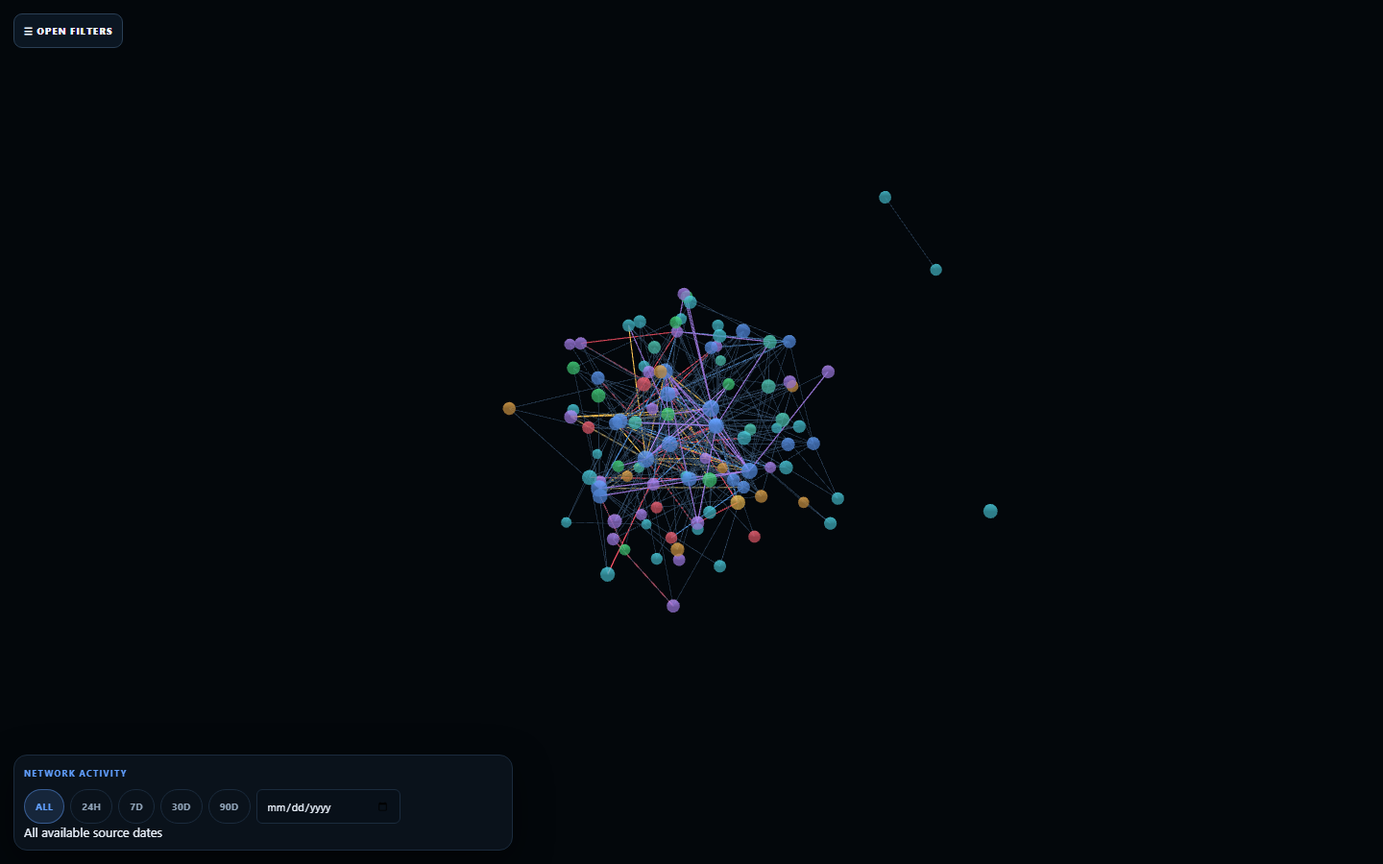
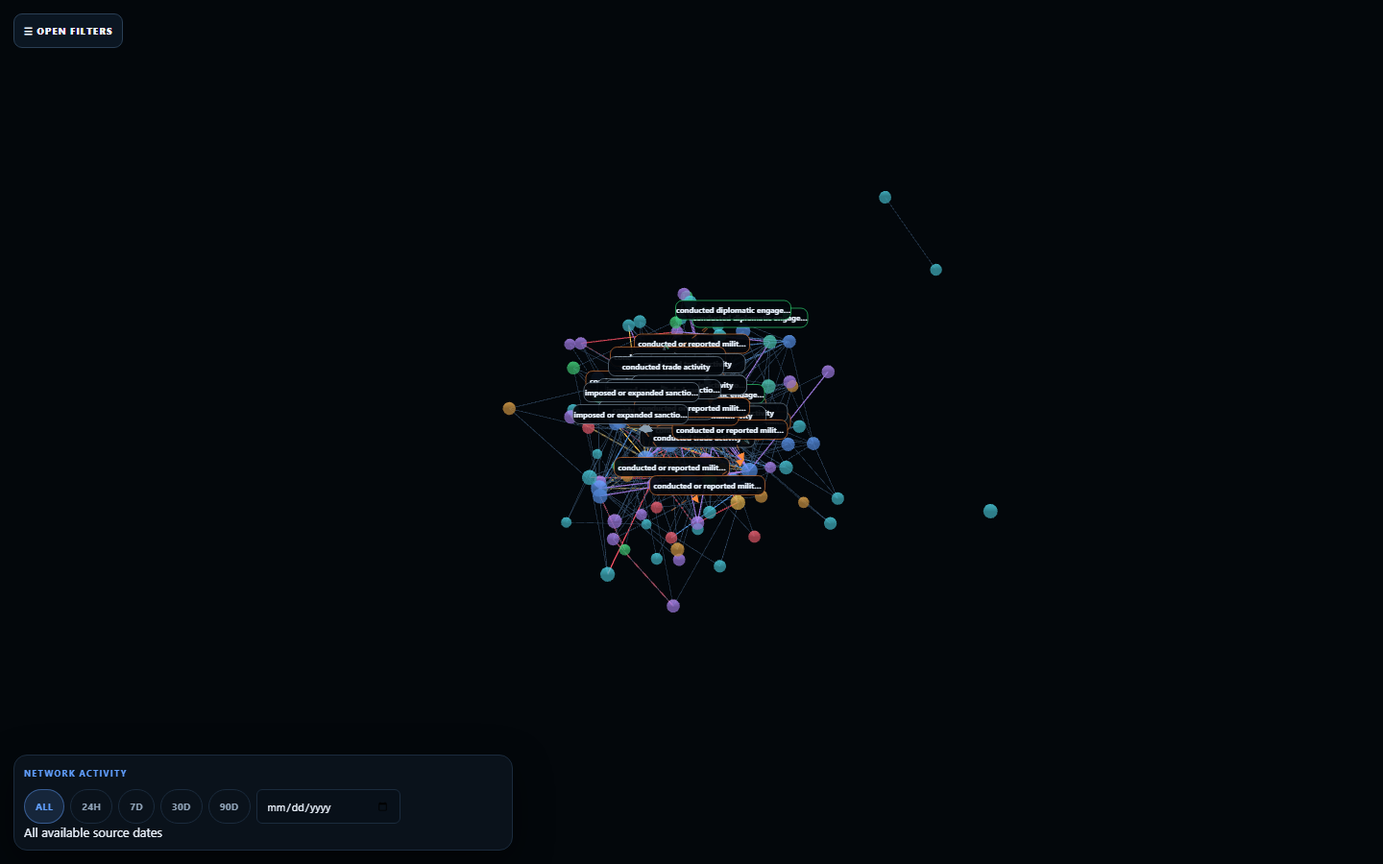
feat(web): restore lazy iframe, runtime budgets, visibility/context-loss guards, cached fetches, action-arrow fix and toggle (W29-W34)

Changed region(s): [[0.4062, 0.3422, 0.5938, 0.5911]]

diff --git a/intelligence_web_v2.js b/intelligence_web_v2.js
@@ -20,13 +20,14 @@ let liveByTitle=new Map(),liveBySourceTitle=new Map();
 function indexLive(d){liveByTitle=new Map();liveBySourceTitle=new Map();const a=Array.isArray(d?.articles)?d.articles:[];for(const x of a){const u=evidenceUrl(x);const t=normTitle(x?.title);const s=normTitle(x?.source||x?.sourceLabel||x?.publisher);if(u&&t){if(!liveByTitle.has(t))liveByTitle.set(t,u);if(s)liveBySourceTitle.set(s+'|'+t,u)}}}
 function resolveUrl(e){const direct=evidenceUrl(e);if(direct)return direct;const t=normTitle(e?.title),s=normTitle(e?.source);return liveBySourceTitle.get(s+'|'+t)||liveByTitle.get(t)||''}
 function enrichEvidence(e){if(!e)return e;const u=resolveUrl(e);if(u&&!e.url)e.url=u;return e}
-async function get(path){const r=await fetch(path+'?v='+Date.now(),{cache:'no-store'});if(!r.ok)throw Error('HTTP '+r.status);return r.json()}
+const jsonCache=new Map();
+async function get(path,force=false){if(!force&&jsonCache.has(path))return jsonCache.get(path);const r=await fetch(path+'?v='+Date.now(),{cache:'no-store'});if(!r.ok)throw Error('HTTP '+r.status);const data=await r.json();jsonCache.set(path,data);return data}
 function normalize(d){const g=d?.intelligenceGraph&&typeof d.intelligenceGraph==='object'?d.intelligenceGraph:null,r=g||d||{};const nodes=(Array.isArray(r.nodes)?r.nodes:[]).map((n,i)=>({...n,id:String(n.id||'node-'+i),label:String(n.label||n.name||n.title||n.id||'Entity '+(i+1)),kind:String(n.kind||'actor').toLowerCase(),mentions:Number(n.mentions)||0,evidence:evidenceClean(n.evidence).map(enrichEvidence)}));const valid=new Set(nodes.map(n=>n.id));const links=(Array.isArray(r.edges)?r.edges:[]).map(e=>{const[s,t]=ends(e);return{...e,source:s,target:t,sid:s,tid:t,weight:Math.max(1,Number(e.weight)||1),types:Array.isArray(e.types)?e.types.map(String):[],relationship:String(e.relationship||'Both entities are referenced in the same public evidence record.'),evidence:evidenceClean(e.evidence).map(enrichEvidence)}}).filter(e=>valid.has(e.source)&&valid.has(e.target)&&e.source!==e.target);return{nodes,links,updatedAt:r.updatedAt||d?.updatedAt||'',method:r.method||'Evidence-backed public reporting graph',caution:r.caution||''}}
-async function load(){let live={};try{live=await get(LIVE);indexLive(live)}catch{indexLive({})}try{const g=normalize(await get(GRAPH));if(g.nodes.length)return g}catch{}return normalize(await get(SNAP))}
+async function load(force=false){let live={};try{live=await get(LIVE,force);indexLive(live)}catch{indexLive({})}try{const g=normalize(await get(GRAPH,force));if(g.nodes.length)return g}catch{}return normalize(await get(SNAP,force))}
 function edgeColor(e){if(isMention(e))return EDGE_COLORS.mention;const t=(e.types||[]).map(x=>String(x).toLowerCase()),r=String(e.relationship||'').toLowerCase();for(const k of ['sanctions','conflict','military','diplomatic','political','trade','economic','strategic','security','resource','oil','energy'])if(t.some(x=>x.includes(k))||r.includes(k))return EDGE_COLORS[k];return EDGE_COLORS.general}
 function showLoadingError(e){const el=$('loading');if(!el)return;el.style.display='grid';el.style.pointerEvents='auto';el.setAttribute('aria-hidden','false');el.innerHTML='<div style="text-align:center;padding:24px;max-width:520px"><b>INTELLIGENCE WEB DATA ERROR</b><br><small>'+esc(e?.message||'Unable to initialize the intelligence graph.')+'</small><br><button id="loading-retry" type="button" style="margin-top:12px">RETRY</button></div>';const b=$('loading-retry');if(b)b.onclick=()=>location.reload()}
 function hideLoading(){const el=$('loading');if(!el)return;el.style.display='none';el.style.pointerEvents='none';el.setAttribute('aria-hidden','true')}
-async function main(base){let active={nodes:[],links:[]},selected=null,dialog=false,filter='all',period='all',query='',relFilter='all',searchTimer=0,fitTimer=0,controls=true,orbit=false,orbitFrame=0,paused=false,relationships=true,labelFrame=0,pathMode=false,pathFrom=null,pathNodes=new Set(),pathLinks=new Set(),isolated=null,isolatedBackup=null,pins=loadPins(),labelsOn=true,reduceMotion=!!(window.matchMedia&&window.matchMedia('(prefers-reduced-motion: reduce)').matches);
+async function main(base){let active={nodes:[],links:[]},selected=null,dialog=false,filter='all',period='all',query='',relFilter='all',searchTimer=0,fitTimer=0,controls=true,orbit=false,orbitFrame=0,paused=false,relationships=true,labelFrame=0,pathMode=false,pathFrom=null,pathNodes=new Set(),pathLinks=new Set(),isolated=null,isolatedBackup=null,pins=loadPins(),labelsOn=true,reduceMotion=!!(window.matchMedia&&window.matchMedia('(prefers-reduced-motion: reduce)').matches),lowTier=((navigator.hardwareConcurrency||8)<=4)||reduceMotion;
 const peer=(e,id)=>{const[a,b]=ends(e);return a===String(id)?b:a};const related=n=>active.links.filter(e=>ends(e).includes(String(n.id)));
 function styles(){const g=window.__gpGraph;if(!g)return;g.nodeColor(n=>pathNodes.size?(pathNodes.has(String(n.id))?'#ffffff':'#263844'):(selected?(n.id===selected.id?'#ffffff':related(selected).some(e=>peer(e,selected.id)===n.id)?NODE_COLORS[n.kind]||NODE_COLORS.actor:'#263844'):NODE_COLORS[n.kind]||NODE_COLORS.actor));g.nodeVal(n=>selected?(n.id===selected.id?Math.max(16,Math.min(34,12+Math.sqrt(Math.max(1,n.mentions))*2.5)):Math.max(9,Math.min(25,9+Math.sqrt(Math.max(1,n.mentions))*1.7))):Math.max(12,Math.min(30,12+Math.sqrt(Math.max(1,n.mentions))*2)));g.linkColor(e=>pathNodes.size?(pathLinks.has(e)?'#ffffff':'#1d2c3c'):(selected&&ends(e).includes(String(selected.id))?'#ffffff':edgeColor(e)));g.linkOpacity(e=>pathNodes.size?(pathLinks.has(e)?.95:.08):(selected&&ends(e).includes(String(selected.id))?.98:(isMention(e)?.32:.9)));g.linkWidth(e=>isMention(e)?1.2:Math.max(1.6,Math.min(9,1.6+Math.sqrt(edgeWeight(e)))))}
 function traceClick(node){const b=String(node.id);if(!pathFrom){pathFrom=b;pathNodes=new Set([b]);pathLinks=new Set();styles();return}const a=pathFrom,prev=new Map([[a,null]]),queue=[a];while(queue.length){const cur=queue.shift();if(cur===b)break;for(const e of active.links){const[s,t]=ends(e);const nxt=s===cur?t:(t===cur?s:null);if(nxt&&!prev.has(nxt)){prev.set(nxt,cur);queue.push(nxt)}}}if(prev.has(b)){const nodes=new Set([b]);let cur=b;while(prev.get(cur)){cur=prev.get(cur);nodes.add(cur)}pathNodes=nodes;pathLinks=new Set(active.links.filter(e=>{const[s,t]=ends(e);return nodes.has(s)&&nodes.has(t)}))}else{pathNodes=new Set([a,b]);pathLinks=new Set()}pathMode=false;pathFrom=null;const tb=$('trace');if(tb){tb.classList.remove('active');tb.setAttribute('aria-pressed','false')}styles()}
@@ -66,6 +67,9 @@ function render(fit=true){
   const keep=new Set(keptLinks.map(e=>e.source).concat(keptLinks.map(e=>e.target)));
   const focusIds=new Set(view.focus.map(n=>String(n.id)));
   active={nodes:view.nodes.filter(n=>keep.has(String(n.id))||focusIds.has(String(n.id))),links:keptLinks};
+  const NODE_BUDGET=150,LINK_BUDGET=600;let budgetTrimmed=false;
+  if(active.nodes.length>NODE_BUDGET){active.nodes=active.nodes.slice(0,NODE_BUDGET);budgetTrimmed=true}
+  if(active.links.length>LINK_BUDGET){active.links=active.links.slice(0,LINK_BUDGET);budgetTrimmed=true}
   close();
   $('labels').innerHTML='';
   active.nodes.forEach(ensureLabel);
@@ -75,6 +79,7 @@ function render(fit=true){
   fitTimer=setTimeout(()=>{if(active.nodes.length&&(fit||active.nodes.length<=3)){try{window.__gpGraph.zoomToFit(700,90)}catch{}}syncLabels()},450);
   const range=period==='all'?'all available dates':`last ${period} hours`;
   const capNote=[];
+  if(budgetTrimmed)capNote.push('view trimmed to '+NODE_BUDGET+' nodes / '+LINK_BUDGET+' connections for rendering');
   if((base.nodes||[]).length>=100)capNote.push('nodes capped at 100 by the pipeline');
   if((base.links||[]).length>=500)capNote.push('connections capped at 500 by the pipeline');
   const ageHours=base.updatedAt?Math.max(0,(Date.now()-Date.parse(base.updatedAt))/3600000):NaN;
@@ -94,9 +99,9 @@ function render(fit=true){
   document.querySelectorAll('.period').forEach(b=>{const on=b.dataset.period===period;b.classList.toggle('active',on);b.setAttribute('aria-pressed',String(on))});
 }
 if(typeof ForceGraph3D!=='function')throw Error('3D graph library failed to load');
-const graphBuilder=new ForceGraph3D($('graph'),{controlType:'orbit',rendererConfig:{antialias:true,alpha:true,powerPreference:'high-performance'}}).backgroundColor('#03070b').showNavInfo(false).nodeId('id').nodeRelSize(6).nodeVal(n=>Math.max(12,Math.min(30,12+Math.sqrt(Math.max(1,n.mentions))*2))).nodeLabel(n=>'<b>'+esc(n.label)+'</b><br>'+esc(n.kind)+' · '+n.mentions+' mentions').nodeColor(n=>NODE_COLORS[n.kind]||NODE_COLORS.actor).linkColor(edgeColor).linkOpacity(.9).linkWidth(e=>isMention(e)?1.2:Math.max(1.6,Math.min(9,1.6+Math.sqrt(edgeWeight(e))))).linkLabel(e=>{const[s,t]=ends(e);const a=active.nodes.find(n=>String(n.id)===s),b=active.nodes.find(n=>String(n.id)===t);return'<b>'+esc(a?.label||s)+'</b> '+(isMention(e)?'co-mentioned with':'→')+' <b>'+esc(b?.label||t)+'</b><br>'+esc(e.relationship||'')+' · '+((e.evidence||[]).length)+' source records'}).linkDirectionalParticles(e=>relationships&&!paused&&!reduceMotion&&!isMention(e)?2:0).linkDirectionalParticleSpeed(.012).enableNodeDrag(true).onNodeClick(node=>{if(pathMode)traceClick(node);else show(node)}).d3VelocityDecay(.65).d3AlphaDecay(.08).warmupTicks(100).cooldownTicks(180);window.__gpGraph=graphBuilder;
+const graphBuilder=new ForceGraph3D($('graph'),{controlType:'orbit',rendererConfig:{antialias:true,alpha:true,powerPreference:'high-performance'}}).backgroundColor('#03070b').showNavInfo(false).nodeId('id').nodeRelSize(6).nodeVal(n=>Math.max(12,Math.min(30,12+Math.sqrt(Math.max(1,n.mentions))*2))).nodeLabel(n=>'<b>'+esc(n.label)+'</b><br>'+esc(n.kind)+' · '+n.mentions+' mentions').nodeColor(n=>NODE_COLORS[n.kind]||NODE_COLORS.actor).linkColor(edgeColor).linkOpacity(.9).linkWidth(e=>isMention(e)?1.2:Math.max(1.6,Math.min(9,1.6+Math.sqrt(edgeWeight(e))))).linkLabel(e=>{const[s,t]=ends(e);const a=active.nodes.find(n=>String(n.id)===s),b=active.nodes.find(n=>String(n.id)===t);return'<b>'+esc(a?.label||s)+'</b> '+(isMention(e)?'co-mentioned with':'→')+' <b>'+esc(b?.label||t)+'</b><br>'+esc(e.relationship||'')+' · '+((e.evidence||[]).length)+' source records'}).linkDirectionalParticles(e=>relationships&&!paused&&!reduceMotion&&!lowTier&&!document.hidden&&!isMention(e)?2:0).linkDirectionalParticleSpeed(.012).enableNodeDrag(true).onNodeClick(node=>{if(pathMode)traceClick(node);else show(node)}).d3VelocityDecay(.65).d3AlphaDecay(.08).warmupTicks(100).cooldownTicks(180);window.__gpGraph=graphBuilder;
 window.addEventListener('resize',()=>{graphBuilder.width(window.innerWidth).height(window.innerHeight);syncLabels()});
 try{graphBuilder.d3Force('charge').strength(-650).distanceMax(1500);graphBuilder.d3Force('link').distance(e=>Math.max(120,210-(Number(e.weight)||1)*10))}catch{}
-const details=$('details'),closeBtn=$('close');details.addEventListener('keydown',e=>{if(e.key!=='Tab')return;const f=details.querySelectorAll('button,a[href],input,select,textarea,[tabindex]:not([tabindex="-1"])');if(!f.length)return;const first=f[0],last=f[f.length-1];if(e.shiftKey&&document.activeElement===first){e.preventDefault();last.focus()}else if(!e.shiftKey&&document.activeElement===last){e.preventDefault();first.focus()}});details.addEventListener('pointerdown',e=>e.stopPropagation(),true);details.addEventListener('click',e=>e.stopPropagation());details.addEventListener('touchstart',e=>e.stopPropagation(),{capture:true,passive:true});closeBtn.addEventListener('click',e=>{e.preventDefault();e.stopPropagation();close();$('node-select').value='';});details.addEventListener('click',e=>{const a=e.target.closest?.('.source-resolve');if(!a)return;e.preventDefault();e.stopPropagation();const t=normTitle(a.dataset.title),s=normTitle(a.dataset.source),u=liveBySourceTitle.get(s+'|'+t)||liveByTitle.get(t)||'';if(u)window.open(u,'_blank','noopener,noreferrer');else{a.textContent='SOURCE URL NOT AVAILABLE';a.disabled=true}},{capture:true});$('clear').onclick=()=>{clearTimeout(searchTimer);$('search').value='';query='';render()};$('refresh').onclick=()=>load().then(x=>{base=x;render()}).catch(showLoadingError);$('search').oninput=e=>{const v=e.target.value;clearTimeout(searchTimer);const probe=window.IntelligenceWebFilters.project(base,{query:v,category:filter,period});const qtr=v.trim().toLowerCase();const hasEvidence=qtr&&(base.nodes||[]).some(n=>(n.evidence||[]).some(x=>String(x.title||x.summary||'').toLowerCase().includes(qtr)));if(qtr&&!probe.focus.length&&!hasEvidence){query=v;render(true)}else{searchTimer=setTimeout(()=>{query=v;render(false)},160)}};document.querySelectorAll('.filter').forEach(b=>b.onclick=()=>{filter=b.dataset.kind||'all';document.querySelectorAll('.filter').forEach(x=>x.classList.toggle('active',x===b));render()});$('reset').onclick=()=>{clearTimeout(searchTimer);filter='all';period='all';query='';relFilter='all';$('search').value='';const rt=$('rel-type');if(rt)rt.value='all';const sn=$('since');if(sn)sn.value='';pathMode=false;pathFrom=null;pathNodes=new Set();pathLinks=new Set();const tb0=$('trace');if(tb0){tb0.classList.remove('active');tb0.setAttribute('aria-pressed','false')}document.querySelectorAll('.filter').forEach(b=>b.classList.toggle('active',b.dataset.kind==='all'));render(true)};$('trace').onclick=function(){pathMode=!pathMode;pathFrom=null;pathNodes=new Set();pathLinks=new Set();this.classList.toggle('active',pathMode);this.setAttribute('aria-pressed',String(pathMode));styles()};$('labels-toggle').onclick=()=>{labelsOn=!labelsOn;applyLabels()};if(reduceMotion){const ob=$('orbit');if(ob){ob.disabled=true;ob.title='Disabled by reduced-motion preference'}}applyLabels();const relSel=$('rel-type');if(relSel)relSel.onchange=e=>{relFilter=e.target.value;render(false)};const since=$('since');if(since)since.onchange=e=>{const v=e.target.value;if(!v)return;const t=Date.parse(v+'T00:00:00');if(!Number.isFinite(t))return;period=String(Math.max(1,Math.round((Date.now()-t)/3600000)));render(true)};$('orbit').onclick=function(){if(reduceMotion){this.disabled=true;return}orbit=!orbit;this.classList.toggle('active',orbit);this.setAttribute('aria-pressed',String(orbit));cancelAnimationFrame(orbitFrame);if(orbit){let a=0;const go=()=>{if(!orbit||paused)return;window.__gpGraph.cameraPosition({x:720*Math.sin(a),y:150,z:720*Math.cos(a)},undefined,0);a+=.0025;orbitFrame=requestAnimationFrame(go)};go()}};$('flow').onclick=function(){relationships=!relationships;this.classList.toggle('active',relationships);this.setAttribute('aria-pressed',String(relationships));window.__gpGraph.linkVisibility(relationships);window.__gpGraph.linkDirectionalParticles(e=>relationships&&!paused&&!reduceMotion&&!isMention(e)?2:0)};document.querySelectorAll('.period').forEach(b=>b.onclick=()=>{period=b.dataset.period||'all';render()});$('node-select').onchange=e=>{const id=e.target.value;clearTimeout(searchTimer);query=$('search').value;render(false);if(id)show(active.nodes.find(n=>n.id===id)||active.nodes[0]||null)};document.addEventListener('keydown',e=>{if(e.key==='Escape'&&dialog){close();$('node-select').focus();return}if(!dialog||(e.key!=='ArrowDown'&&e.key!=='ArrowUp'))return;const list=active.nodes.slice().sort((a,b)=>String(a.label).localeCompare(String(b.label)));if(!list.length)return;const idx=list.findIndex(x=>x.id===selected?.id);const next=list[(idx+(e.key==='ArrowDown'?1:-1)+list.length)%list.length];if(next){e.preventDefault();show(next,true)}});render();startLabelLoop();$('details').style.pointerEvents='none';$('details').setAttribute('aria-hidden','true');hideLoading();setInterval(()=>{if(!document.hidden&&!dialog)load().then(x=>{if(x.updatedAt!==base.updatedAt){base=x;render()}}).catch(e=>console.warn('[Intelligence Web refresh]',e))},60000)}
+const details=$('details'),closeBtn=$('close');details.addEventListener('keydown',e=>{if(e.key!=='Tab')return;const f=details.querySelectorAll('button,a[href],input,select,textarea,[tabindex]:not([tabindex="-1"])');if(!f.length)return;const first=f[0],last=f[f.length-1];if(e.shiftKey&&document.activeElement===first){e.preventDefault();last.focus()}else if(!e.shiftKey&&document.activeElement===last){e.preventDefault();first.focus()}});details.addEventListener('pointerdown',e=>e.stopPropagation(),true);details.addEventListener('click',e=>e.stopPropagation());details.addEventListener('touchstart',e=>e.stopPropagation(),{capture:true,passive:true});closeBtn.addEventListener('click',e=>{e.preventDefault();e.stopPropagation();close();$('node-select').value='';});details.addEventListener('click',e=>{const a=e.target.closest?.('.source-resolve');if(!a)return;e.preventDefault();e.stopPropagation();const t=normTitle(a.dataset.title),s=normTitle(a.dataset.source),u=liveBySourceTitle.get(s+'|'+t)||liveByTitle.get(t)||'';if(u)window.open(u,'_blank','noopener,noreferrer');else{a.textContent='SOURCE URL NOT AVAILABLE';a.disabled=true}},{capture:true});$('clear').onclick=()=>{clearTimeout(searchTimer);$('search').value='';query='';render()};$('refresh').onclick=()=>load(true).then(x=>{base=x;render()}).catch(showLoadingError);$('search').oninput=e=>{const v=e.target.value;clearTimeout(searchTimer);const probe=window.IntelligenceWebFilters.project(base,{query:v,category:filter,period});const qtr=v.trim().toLowerCase();const hasEvidence=qtr&&(base.nodes||[]).some(n=>(n.evidence||[]).some(x=>String(x.title||x.summary||'').toLowerCase().includes(qtr)));if(qtr&&!probe.focus.length&&!hasEvidence){query=v;render(true)}else{searchTimer=setTimeout(()=>{query=v;render(false)},160)}};document.querySelectorAll('.filter').forEach(b=>b.onclick=()=>{filter=b.dataset.kind||'all';document.querySelectorAll('.filter').forEach(x=>x.classList.toggle('active',x===b));render()});$('reset').onclick=()=>{clearTimeout(searchTimer);filter='all';period='all';query='';relFilter='all';$('search').value='';const rt=$('rel-type');if(rt)rt.value='all';const sn=$('since');if(sn)sn.value='';pathMode=false;pathFrom=null;pathNodes=new Set();pathLinks=new Set();const tb0=$('trace');if(tb0){tb0.classList.remove('active');tb0.setAttribute('aria-pressed','false')}document.querySelectorAll('.filter').forEach(b=>b.classList.toggle('active',b.dataset.kind==='all'));render(true)};$('trace').onclick=function(){pathMode=!pathMode;pathFrom=null;pathNodes=new Set();pathLinks=new Set();this.classList.toggle('active',pathMode);this.setAttribute('aria-pressed',String(pathMode));styles()};$('labels-toggle').onclick=()=>{labelsOn=!labelsOn;applyLabels()};if(reduceMotion){const ob=$('orbit');if(ob){ob.disabled=true;ob.title='Disabled by reduced-motion preference'}}applyLabels();const relSel=$('rel-type');if(relSel)relSel.onchange=e=>{relFilter=e.target.value;render(false)};const since=$('since');if(since)since.onchange=e=>{const v=e.target.value;if(!v)return;const t=Date.parse(v+'T00:00:00');if(!Number.isFinite(t))return;period=String(Math.max(1,Math.round((Date.now()-t)/3600000)));render(true)};$('orbit').onclick=function(){if(reduceMotion){this.disabled=true;return}orbit=!orbit;this.classList.toggle('active',orbit);this.setAttribute('aria-pressed',String(orbit));cancelAnimationFrame(orbitFrame);if(orbit){let a=0;const go=()=>{if(!orbit||paused)return;window.__gpGraph.cameraPosition({x:720*Math.sin(a),y:150,z:720*Math.cos(a)},undefined,0);a+=.0025;orbitFrame=requestAnimationFrame(go)};go()}};$('flow').onclick=function(){relationships=!relationships;this.classList.toggle('active',relationships);this.setAttribute('aria-pressed',String(relationships));window.__gpGraph.linkVisibility(relationships);window.__gpGraph.linkDirectionalParticles(e=>relationships&&!paused&&!reduceMotion&&!lowTier&&!document.hidden&&!isMention(e)?2:0)};document.querySelectorAll('.period').forEach(b=>b.onclick=()=>{period=b.dataset.period||'all';render()});$('node-select').onchange=e=>{const id=e.target.value;clearTimeout(searchTimer);query=$('search').value;render(false);if(id)show(active.nodes.find(n=>n.id===id)||active.nodes[0]||null)};document.addEventListener('keydown',e=>{if(e.key==='Escape'&&dialog){close();$('node-select').focus();return}if(!dialog||(e.key!=='ArrowDown'&&e.key!=='ArrowUp'))return;const list=active.nodes.slice().sort((a,b)=>String(a.label).localeCompare(String(b.label)));if(!list.length)return;const idx=list.findIndex(x=>x.id===selected?.id);const next=list[(idx+(e.key==='ArrowDown'?1:-1)+list.length)%list.length];if(next){e.preventDefault();show(next,true)}});render();startLabelLoop();$('details').style.pointerEvents='none';$('details').setAttribute('aria-hidden','true');hideLoading();document.addEventListener('visibilitychange',()=>{const g=window.__gpGraph;if(!g)return;if(document.hidden){try{g.pauseAnimation()}catch{}}else if(!paused){try{g.resumeAnimation()}catch{}}});const gEl=$('graph');if(gEl)gEl.addEventListener('webglcontextlost',e=>{e.preventDefault();showLoadingError(new Error('WebGL context lost. Reload the page to restore the 3D view.'))},true);setInterval(()=>{if(!document.hidden&&!dialog)load(true).then(x=>{if(x.updatedAt!==base.updatedAt){base=x;render()}}).catch(e=>console.warn('[Intelligence Web refresh]',e))},60000)}
 $('stats').textContent='Loading evidence graph…';load().then(main).catch(showLoadingError);
 })();

diff --git a/intelligence_action_flow.js b/intelligence_action_flow.js
@@ -2,17 +2,17 @@
 const DATA='data/canonical_intelligence.json';
 const FALLBACK='data/intelligence_brain.json';
 const C={military:'#ff8a3d',economic:'#ffc857',diplomatic:'#39ff88',technology:'#8b7cff',security:'#5da8ff',political:'#d28cff',maritime:'#35d7c4',energy:'#ffcf66',cyber:'#b88cff',default:'#8aa0b2'};
-let actions=[],root,svg,raf=0;
+let actions=[],root,svg,raf=0,enabled=true;
 function norm(s){return String(s||'').trim().toLowerCase().replace(/\s+/g,' ')}
 function aliases(s){const v=norm(s),out=new Set([v]);if(['united states','u.s.','u.s.a.','usa','american','america','washington','white house','pentagon'].includes(v)){['united states','u.s.','u.s.a.','usa','american','america','washington','white house','pentagon'].forEach(x=>out.add(x))}if(['china','chinese','beijing','pla','people’s republic of china','people\'s republic of china','ccp'].includes(v)){['china','chinese','beijing','pla','people’s republic of china','people\'s republic of china','ccp'].forEach(x=>out.add(x))}return [...out]}
 function ensure(){if(root)return;root=document.createElement('div');root.id='gp-action-flow-layer';root.style.cssText='position:fixed;inset:0;z-index:7;pointer-events:none;overflow:hidden';svg=document.createElementNS('http://www.w3.org/2000/svg','svg');svg.setAttribute('width','100%');svg.setAttribute('height','100%');svg.style.cssText='position:absolute;inset:0;width:100%;height:100%;overflow:visible';root.appendChild(svg);document.body.appendChild(root)}
 function collectCanonical(d){const entities=new Map((d.entities||[]).filter(e=>e&&e.id).map(e=>[String(e.id),e]));actions=[];(d.events||[]).forEach(ev=>{if(!ev||!Array.isArray(ev.actor_ids)||!Array.isArray(ev.target_ids)||!ev.actor_ids.length||!ev.target_ids.length)return;for(const aid of ev.actor_ids){const actor=entities.get(String(aid));if(!actor)continue;for(const tid of ev.target_ids){const target=entities.get(String(tid));if(!target||String(aid)===String(tid))continue;actions.push({actor:actor.canonical_name||actor.name||actor.label||aid,target:target.canonical_name||target.name||target.label||tid,action:ev.action||ev.event_type||'action',category:String(ev.event_type||'security').replace('_action','').replace('_activity','').toLowerCase(),importance:Number(ev.score||ev.strategic_relevance||ev.confidence||1),confidence:Number(ev.confidence||0),ts:ev.timestamp||'',title:ev.title||''})}}});actions.sort((a,b)=>b.importance-a.importance);actions=actions.slice(0,40)}
 function collectFallback(d){actions=[];(d.nodes||[]).forEach(n=>(n.actions||[]).forEach(a=>{if(!a||!a.actor||!a.target||!a.action||!Array.isArray(a.evidence)||!a.evidence.length)return;actions.push({actor:n.label||a.actor,target:a.target,action:a.action,category:String(a.category||'security').toLowerCase(),importance:Number(a.importance||a.weight||1),confidence:Number(a.confidence||0),evidence:a.evidence})}));actions.sort((a,b)=>b.importance-a.importance);actions=actions.slice(0,40)}
-function labelMap(){const m=new Map();document.querySelectorAll('.gp-label').forEach(e=>m.set(norm(e.textContent),e));return m}
+function labelMap(){const m=new Map();document.querySelectorAll('.node-label').forEach(e=>{const t=norm(e.textContent);if(t)m.set(t,e)});return m}
 function resolveLabel(map,name){for(const a of aliases(name))if(map.has(a))return map.get(a);return map.get(norm(name))}
-function draw(){raf=0;ensure();while(svg.firstChild)svg.removeChild(svg.firstChild);const map=labelMap();let i=0;for(const a of actions){const s=resolveLabel(map,a.actor),t=resolveLabel(map,a.target);if(!s||!t||s===t)continue;const sr=s.getBoundingClientRect(),tr=t.getBoundingClientRect(),x1=sr.left+sr.width/2,y1=sr.top+sr.height/2,x2=tr.left+tr.width/2,y2=tr.top+tr.height/2,dx=x2-x1,dy=y2-y1,len=Math.hypot(dx,dy);if(len<35)continue;const color=C[a.category]||C.default,id='gpaf'+(++i),defs=document.createElementNS('http://www.w3.org/2000/svg','defs'),mk=document.createElementNS('http://www.w3.org/2000/svg','marker');mk.id=id;mk.setAttribute('markerWidth','7');mk.setAttribute('markerHeight','7');mk.setAttribute('refX','6');mk.setAttribute('refY','3.5');mk.setAttribute('orient','auto');const path=document.createElementNS('http://www.w3.org/2000/svg','path');path.setAttribute('d','M0,0 L7,3.5 L0,7 Z');path.setAttribute('fill',color);mk.appendChild(path);defs.appendChild(mk);svg.appendChild(defs);const line=document.createElementNS('http://www.w3.org/2000/svg','line');line.setAttribute('x1',x1);line.setAttribute('y1',y1);line.setAttribute('x2',x2);line.setAttribute('y2',y2);line.setAttribute('stroke',color);line.setAttribute('stroke-width',String(Math.min(3,1+Math.log1p(a.importance))));line.setAttribute('stroke-opacity',String(.48+Math.min(.3,a.confidence*.3)));line.setAttribute('stroke-dasharray','6 7');line.setAttribute('marker-end',`url(#${id})`);svg.appendChild(line);const g=document.createElementNS('http://www.w3.org/2000/svg','g'),tx=x1+dx*.5,ty=y1+dy*.5,bg=document.createElementNS('http://www.w3.org/2000/svg','rect');bg.setAttribute('x',tx-60);bg.setAttribute('y',ty-10);bg.setAttribute('width','120');bg.setAttribute('height','20');bg.setAttribute('rx','7');bg.setAttribute('fill','#02070c');bg.setAttribute('fill-opacity','.92');bg.setAttribute('stroke',color);bg.setAttribute('stroke-opacity','.55');const text=document.createElementNS('http://www.w3.org/2000/svg','text');text.setAttribute('x',tx);text.setAttribute('y',ty+3);text.setAttribute('text-anchor','middle');text.setAttribute('fill','#eaf4ff');text.setAttribute('font-size','8');text.setAttribute('font-family','system-ui,sans-serif');text.setAttribute('font-weight','700');text.textContent=a.action.length>28?a.action.slice(0,27)+'…':a.action;g.appendChild(bg);g.appendChild(text);svg.appendChild(g)}}
-function queue(){if(!raf)raf=requestAnimationFrame(draw)}
+function draw(){raf=0;ensure();if(document.hidden||!enabled){while(svg.firstChild)svg.removeChild(svg.firstChild);return}while(svg.firstChild)svg.removeChild(svg.firstChild);const map=labelMap();let i=0;for(const a of actions){const s=resolveLabel(map,a.actor),t=resolveLabel(map,a.target);if(!s||!t||s===t)continue;const sr=s.getBoundingClientRect(),tr=t.getBoundingClientRect(),x1=sr.left+sr.width/2,y1=sr.top+sr.height/2,x2=tr.left+tr.width/2,y2=tr.top+tr.height/2,dx=x2-x1,dy=y2-y1,len=Math.hypot(dx,dy);if(len<35)continue;const color=C[a.category]||C.default,id='gpaf'+(++i),defs=document.createElementNS('http://www.w3.org/2000/svg','defs'),mk=document.createElementNS('http://www.w3.org/2000/svg','marker');mk.id=id;mk.setAttribute('markerWidth','7');mk.setAttribute('markerHeight','7');mk.setAttribute('refX','6');mk.setAttribute('refY','3.5');mk.setAttribute('orient','auto');const path=document.createElementNS('http://www.w3.org/2000/svg','path');path.setAttribute('d','M0,0 L7,3.5 L0,7 Z');path.setAttribute('fill',color);mk.appendChild(path);defs.appendChild(mk);svg.appendChild(defs);const line=document.createElementNS('http://www.w3.org/2000/svg','line');line.setAttribute('x1',x1);line.setAttribute('y1',y1);line.setAttribute('x2',x2);line.setAttribute('y2',y2);line.setAttribute('stroke',color);line.setAttribute('stroke-width',String(Math.min(3,1+Math.log1p(a.importance))));line.setAttribute('stroke-opacity',String(.48+Math.min(.3,a.confidence*.3)));line.setAttribute('stroke-dasharray','6 7');line.setAttribute('marker-end',`url(#${id})`);svg.appendChild(line);const g=document.createElementNS('http://www.w3.org/2000/svg','g'),tx=x1+dx*.5,ty=y1+dy*.5,bg=document.createElementNS('http://www.w3.org/2000/svg','rect');bg.setAttribute('x',tx-60);bg.setAttribute('y',ty-10);bg.setAttribute('width','120');bg.setAttribute('height','20');bg.setAttribute('rx','7');bg.setAttribute('fill','#02070c');bg.setAttribute('fill-opacity','.92');bg.setAttribute('stroke',color);bg.setAttribute('stroke-opacity','.55');const text=document.createElementNS('http://www.w3.org/2000/svg','text');text.setAttribute('x',tx);text.setAttribute('y',ty+3);text.setAttribute('text-anchor','middle');text.setAttribute('fill','#eaf4ff');text.setAttribute('font-size','8');text.setAttribute('font-family','system-ui,sans-serif');text.setAttribute('font-weight','700');text.textContent=a.action.length>28?a.action.slice(0,27)+'…':a.action;g.appendChild(bg);g.appendChild(text);svg.appendChild(g)}}
+function queue(){if(document.hidden)return;if(!raf)raf=requestAnimationFrame(draw)}
 async function load(){try{let r=await fetch(DATA+'?v='+Date.now(),{cache:'no-store'});if(r.ok){const d=await r.json();if(Array.isArray(d.events)&&Array.isArray(d.entities)){collectCanonical(d);queue();return}}r=await fetch(FALLBACK+'?v='+Date.now(),{cache:'no-store'});if(r.ok){collectFallback(await r.json());queue()}}catch(e){console.warn('Action flow layer unavailable',e)}}
-function init(){load();new MutationObserver(queue).observe(document.getElementById('graph')||document.body,{childList:true,subtree:true});addEventListener('resize',queue);setInterval(queue,500)}
+function init(){load();new MutationObserver(queue).observe(document.getElementById('graph')||document.body,{childList:true,subtree:true});addEventListener('resize',queue);setInterval(queue,500);const btn=document.getElementById('actions-layer');if(btn){btn.onclick=()=>{enabled=!enabled;btn.classList.toggle('active',enabled);btn.setAttribute('aria-pressed',String(enabled));queue()}}}
 init();
 })();

diff --git a/intelligence-web.html b/intelligence-web.html
@@ -94,7 +94,7 @@ button.active,.filter.active,.period.active{color:var(--blue);border-color:rgba(
   <div class="sub">Living cross-domain knowledge graph. Public-source relationships are evidence/context links, not proof of causation, coordination, intent or responsibility.</div>
   <div class="row"><input id="search" aria-label="Search intelligence graph" placeholder="Search countries, conflicts, events, organizations…"><button id="clear">CLEAR</button><button id="refresh">↻ REFRESH</button></div>
   <div class="row"><button class="filter active" data-kind="all">ALL</button><button class="filter" data-kind="country">COUNTRIES</button><button class="filter" data-kind="person">PEOPLE</button><button class="filter" data-kind="government">GOVERNMENT</button><button class="filter" data-kind="military">MILITARY</button><button class="filter" data-kind="organization">ORGANIZATIONS</button><button class="filter" data-kind="economic">ECONOMY</button><button class="filter" data-kind="location">PLACES</button><button class="filter" data-kind="conflict">CONFLICTS</button><button class="filter" data-kind="infrastructure">INFRASTRUCTURE</button><button class="filter" data-kind="technology">TECHNOLOGY</button><button class="filter" data-kind="other">OTHER</button></div>
-  <div class="row"><button id="reset">RESET VIEW</button><button id="orbit" aria-pressed="false">3D ORBIT</button><button id="flow" class="active" aria-pressed="true">RELATIONSHIPS</button><button id="labels-toggle" class="active" aria-pressed="true">LABELS</button><button id="trace" aria-pressed="false">TRACE PATH</button><select id="rel-type" aria-label="Filter by relationship type"><option value="all">ALL RELATIONSHIPS</option><option value="action">ACTION ONLY</option><option value="mention">CO-MENTION ONLY</option></select></div>
+  <div class="row"><button id="reset">RESET VIEW</button><button id="orbit" aria-pressed="false">3D ORBIT</button><button id="flow" class="active" aria-pressed="true">RELATIONSHIPS</button><button id="labels-toggle" class="active" aria-pressed="true">LABELS</button><button id="actions-layer" class="active" aria-pressed="true">ACTION ARROWS</button><button id="trace" aria-pressed="false">TRACE PATH</button><select id="rel-type" aria-label="Filter by relationship type"><option value="all">ALL RELATIONSHIPS</option><option value="action">ACTION ONLY</option><option value="mention">CO-MENTION ONLY</option></select></div>
   <div class="row"><select id="node-select" aria-label="Select matching entity"><option>Loading entities…</option></select></div>
   <div id="stats" role="status">Preparing intelligence graph…</div>
   <div class="legend">Node colors encode entity kind; connection colors encode relationship category (co-mention vs action). Relationships are evidence/context links, not proof of causation. Live counts load with the graph.</div>

diff --git a/global_pulse_performance.js b/global_pulse_performance.js
@@ -23,9 +23,8 @@ function lazyIntelWeb(){
   var frame=document.querySelector('.gp-intelweb-frame');
   if(!frame || frame.dataset.gpLazyReady==='1')return;
   frame.dataset.gpLazyReady='1';
-  /* Ownership: index.html forces this frame to eager loading at runtime.
-     An eager frame is owned by markup — stripping and re-adding src here
-     would cancel the eager load and fetch the graph page twice. */
+  /* Ownership: index.html markup owns the lazy contract; this layer defers
+     the frame's src until it is near the viewport (or deep-linked). */
   if(frame.loading==='eager')return;
   var src=frame.getAttribute('src');
   if(!src)return;

diff --git a/index.html b/index.html
@@ -78,6 +78,5 @@
   <script src="global_pulse_brain_ui.js?v=1" defer></script>
   <script src="global_pulse_performance.js?v=20260907-runtimefix3" defer></script>
   <script src="global_pulse_qa.js?v=1" defer></script>
-  <script>const intelWebFrame=document.querySelector('.gp-intelweb-frame');if(intelWebFrame)intelWebFrame.loading='eager';</script>
 </body>
 </html>
